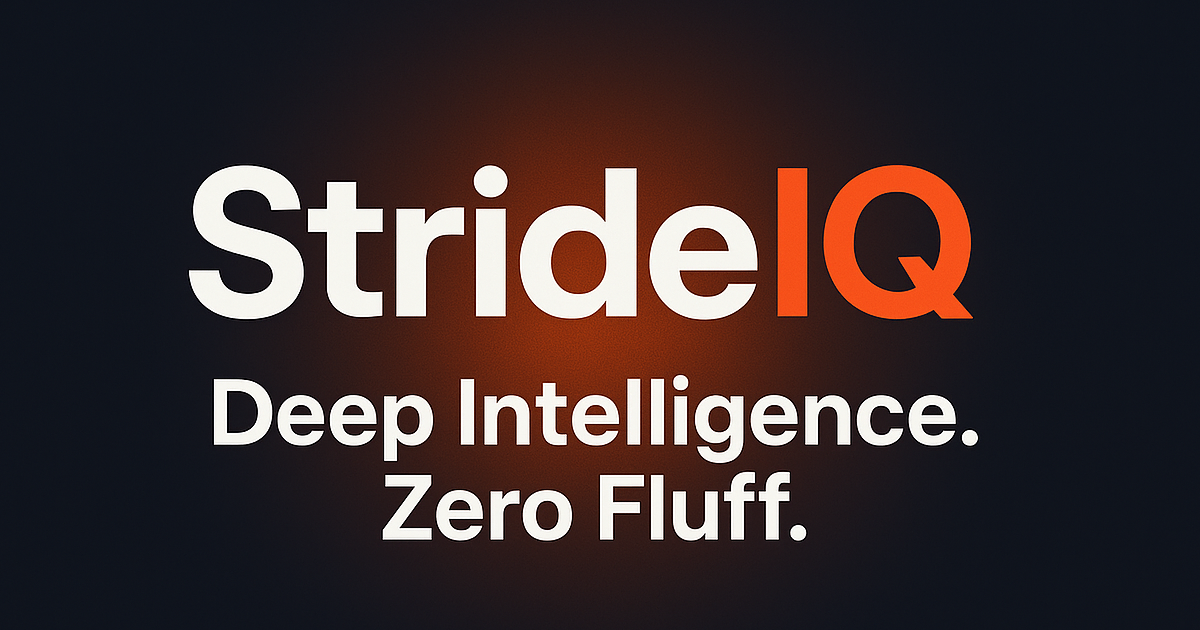
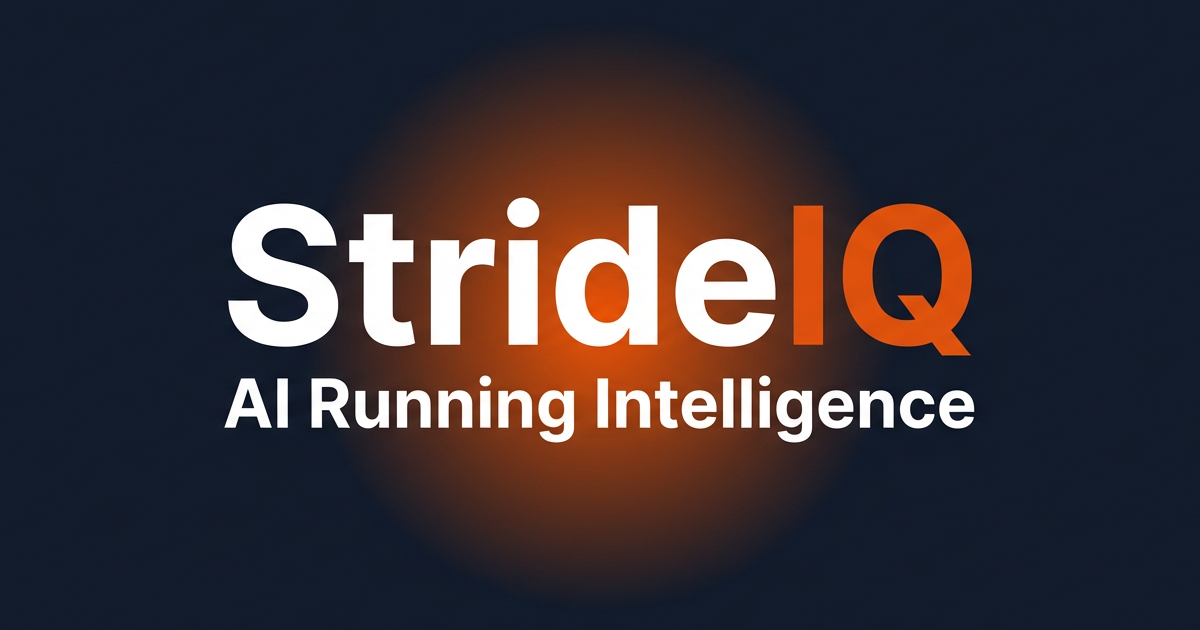
fix(seo): final OG v4 for cross-platform thumbnail clarity

Changed region(s): [[0.1542, 0.2413, 0.8325, 0.8746]]

diff --git a/apps/web/app/page.tsx b/apps/web/app/page.tsx
@@ -12,7 +12,7 @@ import { JsonLd } from '@/components/seo/JsonLd';
 
 const LANDING_META_DESCRIPTION =
   'Your body has a voice. StrideIQ is AI running intelligence that turns your data into decisions — training paces, trend signals, and coaching that adapts to you.'
-const OG_IMAGE_URL = '/og-image.png?v=3'
+const OG_IMAGE_URL = '/og-image.png?v=4'
 
 const organizationJsonLd = {
   '@context': 'https://schema.org',

diff --git a/apps/web/app/layout.tsx b/apps/web/app/layout.tsx
@@ -14,7 +14,7 @@ import './globals.css'
 
 const META_DESCRIPTION =
   'Your body has a voice. StrideIQ is AI running intelligence that turns your data into decisions — training paces, trend signals, and coaching that adapts to you.'
-const OG_IMAGE_URL = '/og-image.png?v=3'
+const OG_IMAGE_URL = '/og-image.png?v=4'
 
 export const metadata: Metadata = {
   title: {
